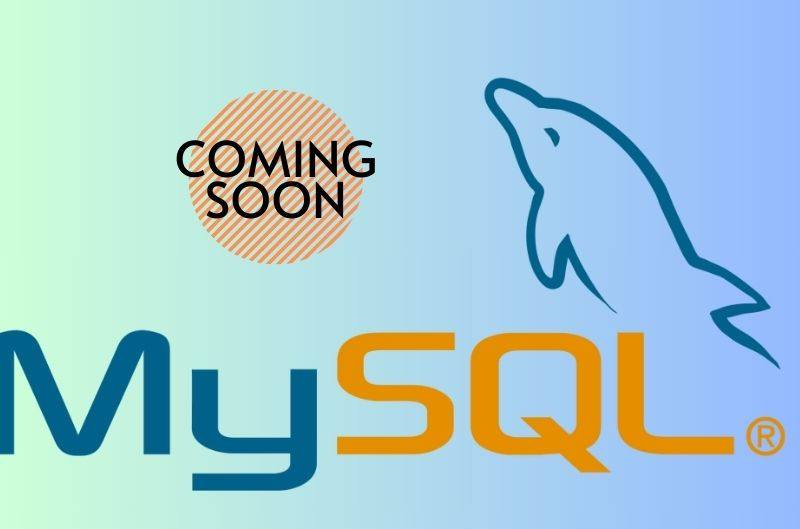
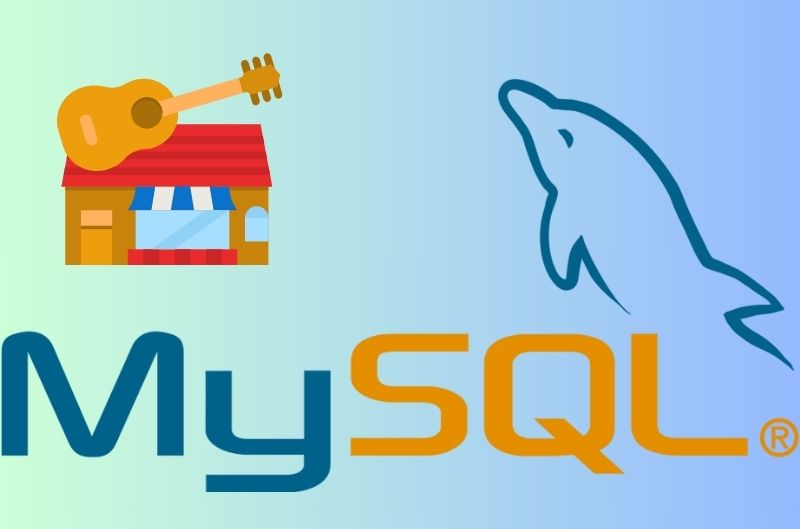
Added SQL and Excel Project's links

Changed region(s): [[0.0, 0.1512, 1.0, 0.9376], [0.0625, 0.0907, 0.4688, 0.5142]]

diff --git a/index.html b/index.html
@@ -298,7 +298,8 @@
             <li data-filter="*" class="filter-active">All</li>
             <li data-filter=".filter-sql">SQL</li>
             <li data-filter=".filter-tableau">Tableau</li>
-            <li data-filter=".filter-python">Python</li>
+            <li data-filter=".filter-excel">Excel</li>
+            <!-- <li data-filter=".filter-python">Excel</li> -->
           </ul><!-- End Portfolio Filters -->
 
           <div class="row gy-4 isotope-container" data-aos="fade-up" data-aos-delay="200">
@@ -336,33 +337,33 @@
             <div class="col-lg-4 col-md-6 portfolio-item isotope-item filter-sql">
               <img src="assets/img/masonry-portfolio/SQL1.jpg" class="img-fluid" alt="">
               <div class="portfolio-info">
-                <h4>SQL 1</h4>
-                <p>Coming Soon</p>
+                <h4>SQL Portfolio Project: Music Store Data Analysis</h4>
+                <p>Music Store Data Analysis using PostgreSQL.</p>
                 <a href="assets/img/masonry-portfolio/SQL1.jpg" title="SQL 1" data-gallery="portfolio-gallery-branding" class="glightbox preview-link"><i class="bi bi-zoom-in"></i></a>
-                <a href="" title="SQL 1" class="details-link"><i class="bi bi-link-45deg"></i></a>
+                <a href="https://github.com/dhaubanjar/Data-Analyst---Music-Store-data-analysis.git" title="SQL 1" class="details-link"><i class="bi bi-link-45deg"></i></a>
               </div>
             </div><!-- End Portfolio Item -->
 
             <div class="col-lg-4 col-md-6 portfolio-item isotope-item filter-sql">
-              <img src="assets/img/masonry-portfolio/masonry-portfolio-5.jpg" class="img-fluid" alt="">
+              <img src="assets/img/masonry-portfolio/SQL2.jpg" class="img-fluid" alt="">
               <div class="portfolio-info">
                 <h4>SQl 2</h4>
                 <p>Coming Soon</p>
-                <a href="assets/img/masonry-portfolio/masonry-portfolio-5.jpg" title="SQL 2" data-gallery="portfolio-gallery-branding" class="glightbox preview-link"><i class="bi bi-zoom-in"></i></a>
+                <a href="assets/img/masonry-portfolio/SQL2.jpg" title="SQL 2" data-gallery="portfolio-gallery-branding" class="glightbox preview-link"><i class="bi bi-zoom-in"></i></a>
                 <a href="" title="SQL 2" class="details-link"><i class="bi bi-link-45deg"></i></a>
               </div>
             </div><!-- End Portfolio Item -->
 
-            <!-- <div class="col-lg-4 col-md-6 portfolio-item isotope-item filter-branding">
-              <img src="assets/img/masonry-portfolio/masonry-portfolio-6.jpg" class="img-fluid" alt="">
+            <div class="col-lg-4 col-md-6 portfolio-item isotope-item filter-excel">
+              <img src="assets/img/masonry-portfolio/Excel1.jpg" class="img-fluid" alt="">
               <div class="portfolio-info">
-                <h4>Branding 2</h4>
-                <p>Lorem ipsum, dolor sit</p>
-                <a href="assets/img/masonry-portfolio/masonry-portfolio-6.jpg" title="Branding 2" data-gallery="portfolio-gallery-branding" class="glightbox preview-link"><i class="bi bi-zoom-in"></i></a>
-                <a href="" title="More Details" class="details-link"><i class="bi bi-link-45deg"></i></a>
+                <h4>Excel: Bike Sales Dashboard</h4>
+                <p>Bike Sales Analysis Using Excel</p>
+                <a href="assets/img/masonry-portfolio/masonry-portfolio-6.jpg" title="Excel 1" data-gallery="portfolio-gallery-branding" class="glightbox preview-link"><i class="bi bi-zoom-in"></i></a>
+                <a href="https://github.com/dhaubanjar/Bike-Sales-Excel-Dashboard.git" title="Excel 1" class="details-link"><i class="bi bi-link-45deg"></i></a>
               </div>
-            </div> -->
-            <!-- End Portfolio Item -->
+            </div>
+            <!-- End Portfolio Item
 
             <!-- <div class="col-lg-4 col-md-6 portfolio-item isotope-item filter-app">
               <img src="assets/img/masonry-portfolio/masonry-portfolio-7.jpg" class="img-fluid" alt="">
